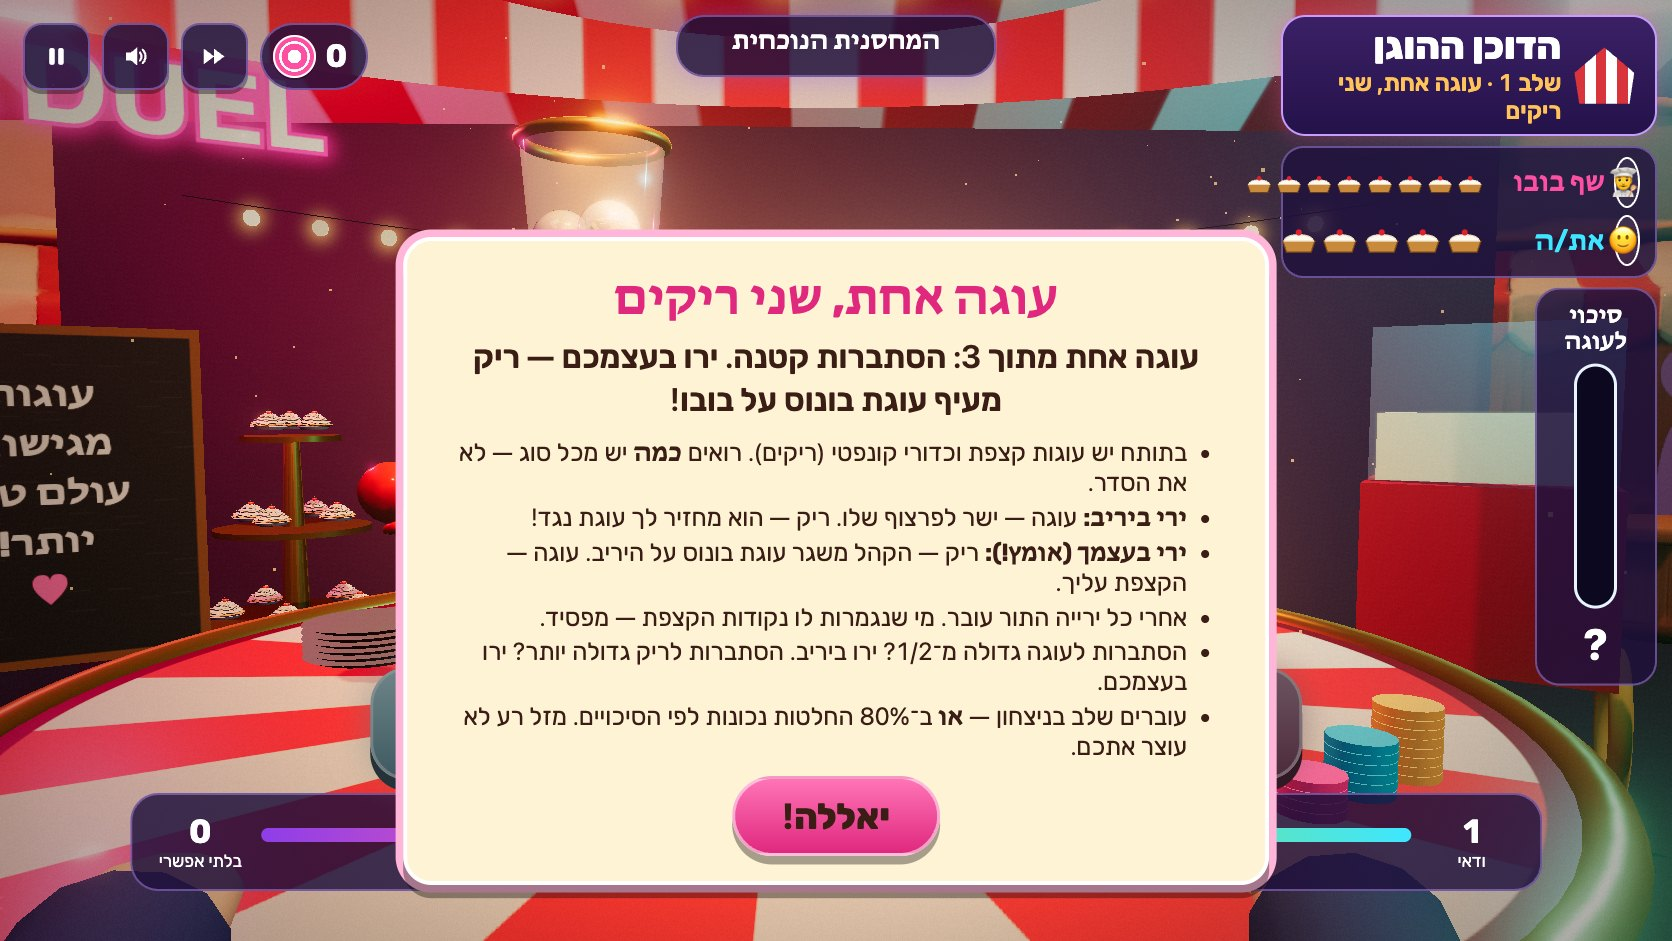
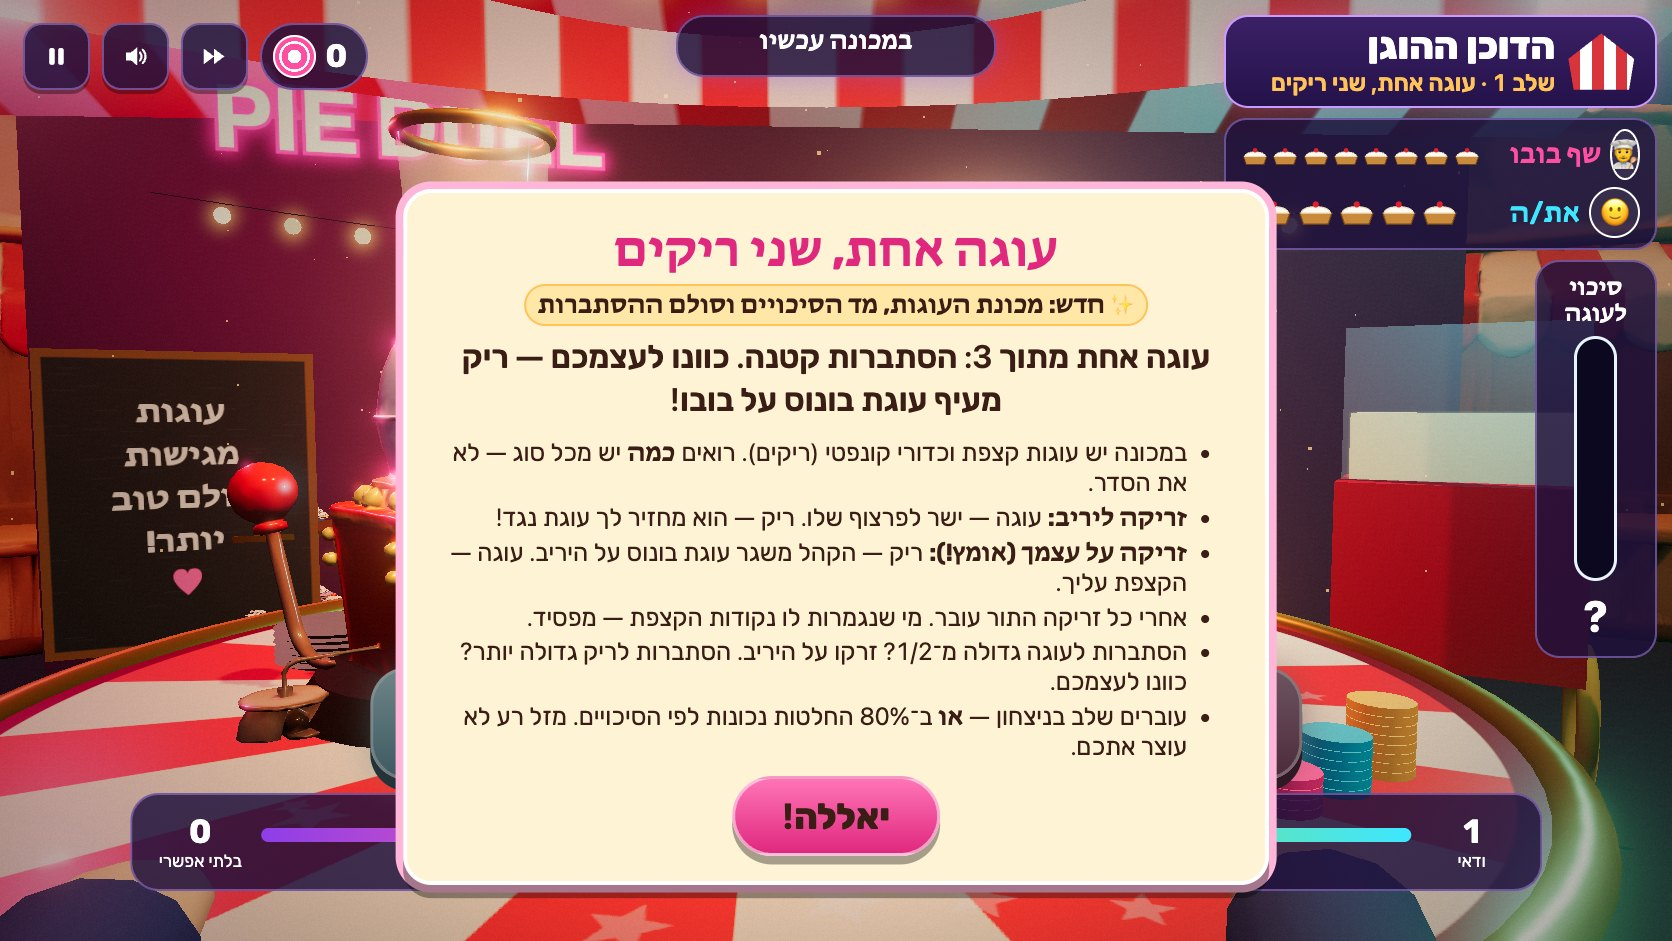
Honest finale text; refreshed captures and a per-level screenshot gallery; old playtest screenshots untracked

diff --git a/src/game.ts b/src/game.ts
@@ -920,7 +920,7 @@ export class Game {
     const next = endless ? null : LEVELS.find((l) => l.id === id + 1);
     const wrong = d.decisions.filter((x) => !x.correct).slice(-1)[0];
     const lesson = wrong ? `<p style="font-size:.9em;opacity:.9">טעות לדוגמה: הסיכוי לעוגה היה ${ltr(str(wrong.pSeen))} ובחרת ${wrong.choice === 'self' ? 'לכוון לעצמך' : wrong.choice === 'rival' ? 'לזרוק על היריב' : CARD_INFO[wrong.choice as CardId]?.name ?? wrong.choice}. ${betterMove(wrong)}</p>` : '';
-    if (r.passed && id === 17 && !expert) return this.finale(stars);
+    if (r.passed && id === 17 && !expert) return this.finale(stars, r.won);
     this.overlay(
       `<h2>${title}</h2>${stars}<p>${why}</p><p>החלטות לפי הסיכויים: ${ltr(`${r.matchCorrect}/${r.matchDecisions}`)}${d.carry.length ? ` (כולל ניסיונות קודמים: ${ltr(`${r.correct}/${r.total}`)})` : ''}</p>${lesson}
       ${r.passed && !endless && !expert && next && next.booth !== d.level.booth ? `<p class="unlock">🎪 נפתח דוכן חדש: <b>${BOOTHS.find((b) => b.id === next.booth)!.name}</b> — ${BOOTH_SUBJECTS[next.booth].subject}</p>` : ''}
@@ -937,13 +937,13 @@ export class Game {
   }
 
   /** The champion's finale: trophy, fireworks, totals and where to go next. */
-  private finale(stars: string) {
+  private finale(stars: string, won: boolean) {
     const total = Object.values(this.save.stars).reduce((a, b) => a + b, 0);
     for (let i = 0; i < 8; i++) setTimeout(() => this.stage.fireworks(), i * 260);
     this.domConfetti();
     setTimeout(() => this.domConfetti(), 900);
     this.overlay(
-      `<div class="finale"><div class="trophy">🏆</div><h2>אלופי הקרנבל!</h2>${stars}<p>ביג מו מכוסה בקצפת, והגביע שלכם. ספרתם, חישבתם — ועקפתם את המזל.</p>
+      `<div class="finale"><div class="trophy">🏆</div><h2>אלופי הקרנבל!</h2>${stars}<p>${won ? 'ביג מו מכוסה בקצפת, והגביע שלכם.' : 'ביג מו ניצח בקרב — אבל ההחלטות שלכם היו של אלופים, והגביע שלכם.'} ספרתם, חישבתם — ועקפתם את המזל.</p>
       <p>סך הכול: ★ ${ltr(`${total}/51`)}</p>
       <ul><li>🔥 <b>מצב מומחה</b> נפתח לכל שלב שעברתם: בלי מד ונגד יריבים חכמים יותר — אספו כתרים 👑</li><li>🎡 <b>לילות בקרנבל</b>: תערובות חדשות בכל לילה, כמה לילות ברצף תשרדו?</li></ul></div>
       <div class="row-btns"><button class="btn gold" id="ov-night">🎡 לילה בקרנבל</button><button class="btn dark" id="ov-select">לשדרת הדוכנים</button></div>`,

diff --git a/docs/PLAYTEST_RAW.md b/docs/PLAYTEST_RAW.md
@@ -1,5 +1,7 @@
 # Pie Duel: raw playtest notes (independent tester)
 
+> Screenshots referenced below were taken on an earlier build; they are kept in git history (commit before 2026-10-31 polish) and in `docs/captures/playtest/` locally, but no longer tracked.
+
 Date: 2026-10-31. Build: `dist/` served by `vite preview` on http://localhost:4216/.
 Driver: Playwright + Chrome (`--use-angle=metal`), 1280×720 desktop and 390×844 `isMobile`/`hasTouch`. Game time was stepped with
 `window.advanceTime`. Every move went through real inputs: keys `1`/`2`/`3`/`P`/`M`/`H`/`Enter`, clicks on `[data-t]`,
